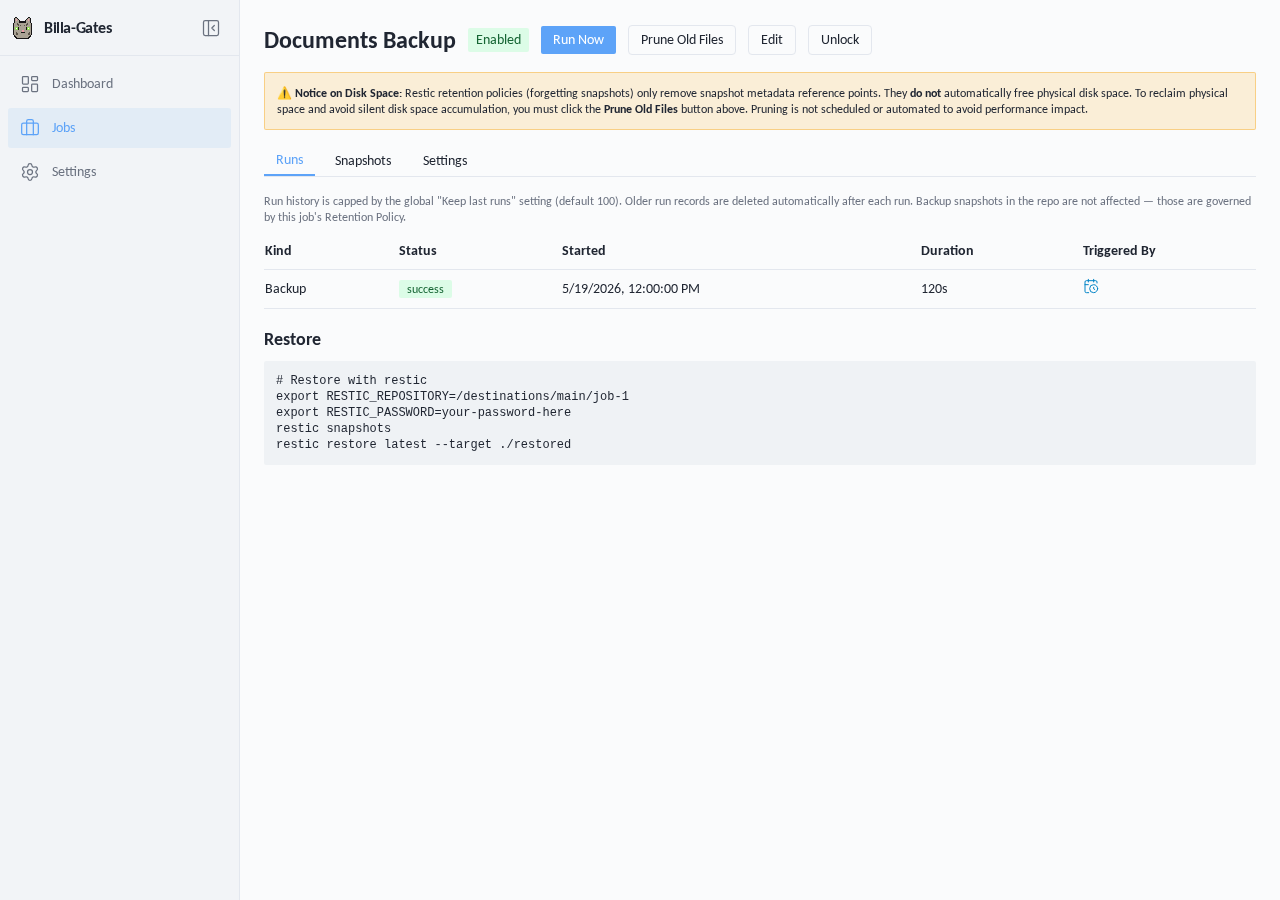
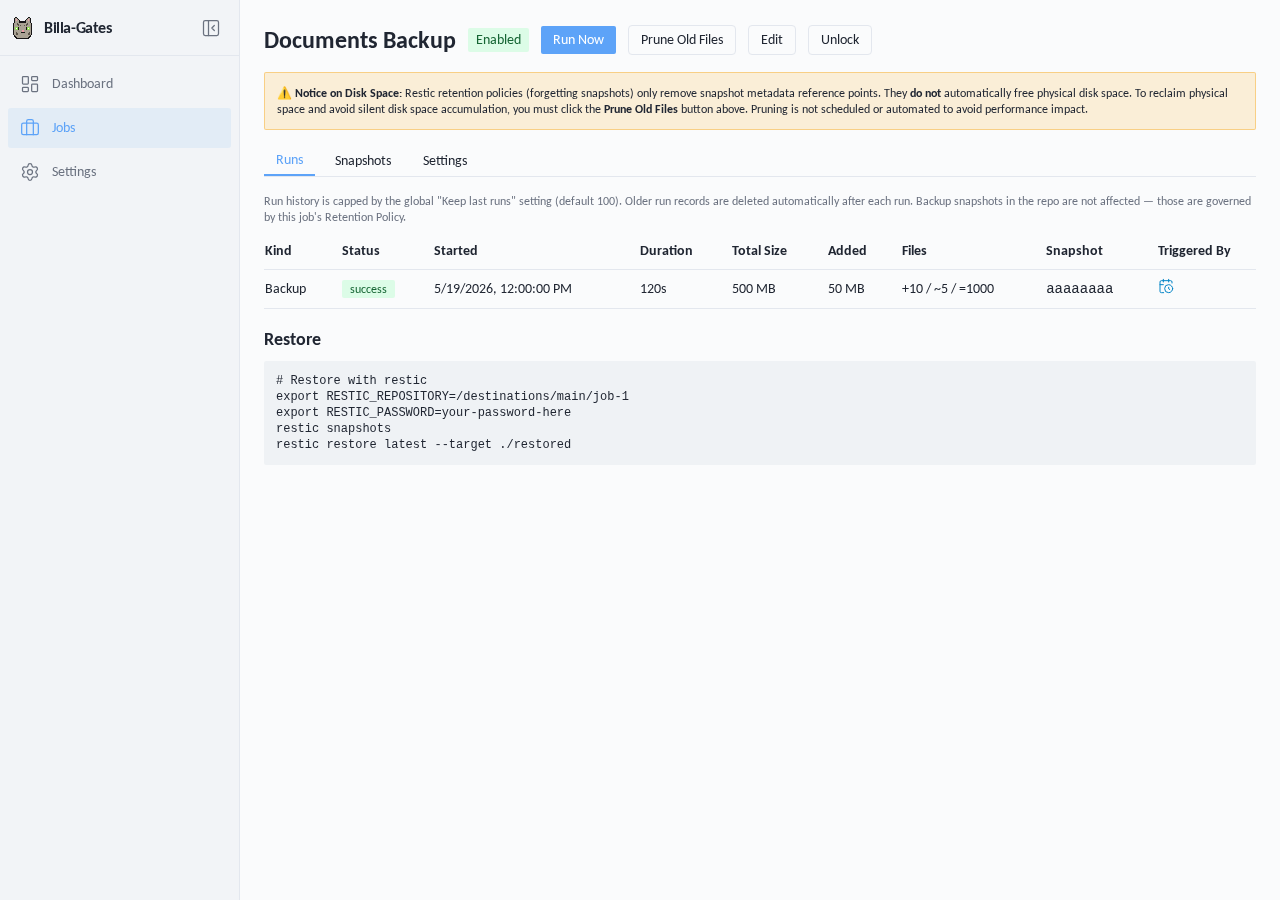
add run details to the table

diff --git a/frontend/src/pages/JobDetail.test.tsx b/frontend/src/pages/JobDetail.test.tsx
@@ -492,4 +492,73 @@ describe('JobDetail', () => {
       expect(screen.getByRole('form')).toBeInTheDocument()
     })
   })
+
+  describe('runs list statistics columns', () => {
+    it('renders Total Size, Added size, Files, and Snapshot columns for runs with stats', async () => {
+      vi.mocked(api.getJobRuns).mockResolvedValue([
+        makeRun({
+          id: 'r-stats',
+          kind: 'backup',
+          status: 'success',
+          total_bytes_processed: 50000000, // ~47.7 MB
+          data_added_bytes: 1024000, // 1000 KB
+          files_new: 10,
+          files_changed: 5,
+          files_unmodified: 1000,
[1 lines of base64/hex data omitted]
+        }),
+      ])
+      renderWithProviders(<JobDetail />, { route: '/jobs/job-1' })
+      const table = await screen.findByRole('table')
+
+      // Verify table headers are present
+      expect(screen.getByText('Total Size')).toBeInTheDocument()
+      expect(screen.getByText('Added')).toBeInTheDocument()
+      expect(screen.getByText('Files')).toBeInTheDocument()
+      expect(screen.getByText('Snapshot')).toBeInTheDocument()
+
+      // Verify row values are formatted and displayed
+      const cells = Array.from(table.querySelectorAll('td')).map((c) => c.textContent ?? '')
+      expect(cells).toContain('47.7 MB')
+      expect(cells).toContain('1000 KB')
+      expect(cells).toContain('+10 / ~5 / =1000')
+      expect(cells).toContain('abcdef12')
+    })
+
+    it('renders dashes for stats when they are missing or null (e.g. prune runs)', async () => {
+      vi.mocked(api.getJobRuns).mockResolvedValue([
+        makeRun({
+          id: 'r-prune',
+          kind: 'prune',
+          status: 'success',
+          total_bytes_processed: null,
+          data_added_bytes: null,
+          files_new: null,
+          files_changed: null,
+          files_unmodified: null,
+          snapshot_id: null,
+        }),
+      ])
+      renderWithProviders(<JobDetail />, { route: '/jobs/job-1' })
+      const table = await screen.findByRole('table')
+
+      const rows = table.querySelectorAll('tbody tr')
+      expect(rows.length).toBe(1)
+      const cells = Array.from(rows[0].querySelectorAll('td')).map((c) => c.textContent ?? '')
+
+      // Kind (0): 'prune'
+      // Status (1): 'success' (RunStatusBadge)
+      // Started (2): date
+      // Duration (3): duration
+      // Total Size (4): '—'
+      // Added (5): '—'
+      // Files (6): '—'
+      // Snapshot (7): '—'
+      // Triggered By (8): Icon
+      expect(cells[4]).toBe('—')
+      expect(cells[5]).toBe('—')
+      expect(cells[6]).toBe('—')
+      expect(cells[7]).toBe('—')
+    })
+  })
 })

diff --git a/frontend/src/pages/JobDetail.tsx b/frontend/src/pages/JobDetail.tsx
@@ -6,6 +6,7 @@ import RunStatusBadge from '../components/RunStatusBadge'
 import TriggeredByIcon from '../components/TriggeredByIcon'
 import * as api from '../lib/api'
 import type { BackupRun } from '../lib/types'
+import { formatBytes } from '../lib/utils'
 
 type Tab = 'runs' | 'snapshots' | 'settings'
 
@@ -250,6 +251,10 @@ export default function JobDetail() {
                   <th className="py-2 pr-4">Status</th>
                   <th className="py-2 pr-4">Started</th>
                   <th className="py-2 pr-4">Duration</th>
+                  <th className="py-2 pr-4">Total Size</th>
+                  <th className="py-2 pr-4">Added</th>
+                  <th className="py-2 pr-4">Files</th>
+                  <th className="py-2 pr-4">Snapshot</th>
                   <th className="py-2">Triggered By</th>
                 </tr>
               </thead>
@@ -265,6 +270,16 @@ export default function JobDetail() {
                     <td className="py-2 pr-4">{new Date(r.started_at).toLocaleString()}</td>
                     <td className="py-2 pr-4">
                       {r.duration_seconds != null ? `${r.duration_seconds}s` : '—'}
+                    </td>
+                    <td className="py-2 pr-4">{formatBytes(r.total_bytes_processed)}</td>
+                    <td className="py-2 pr-4">{formatBytes(r.data_added_bytes)}</td>
+                    <td className="py-2 pr-4">
+                      {r.files_new != null || r.files_changed != null || r.files_unmodified != null
+                        ? `+${r.files_new ?? 0} / ~${r.files_changed ?? 0} / =${r.files_unmodified ?? 0}`
+                        : '—'}
+                    </td>
+                    <td className="py-2 pr-4 font-mono">
+                      {r.snapshot_id ? r.snapshot_id.substring(0, 8) : '—'}
                     </td>
                     <td className="py-2">
                       <TriggeredByIcon value={r.triggered_by} />

diff --git a/frontend/src/pages/RunDetail.tsx b/frontend/src/pages/RunDetail.tsx
@@ -3,6 +3,7 @@ import { Link, useParams } from 'react-router-dom'
 import RunStatusBadge from '../components/RunStatusBadge'
 import * as api from '../lib/api'
 import type { BackupRun } from '../lib/types'
+import { formatBytes } from '../lib/utils'
 
 function shouldPoll(run: BackupRun): boolean {
   return run.status === 'running' || run.check_status === null
@@ -12,13 +13,6 @@ function formatDuration(seconds: number): string {
   if (seconds >= 3600) return `${Math.round(seconds / 3600)} hr`
   if (seconds >= 60) return `${Math.round(seconds / 60)} min`
   return `${seconds} sec`
-}
-
-function formatBytes(bytes: number): string {
-  if (bytes >= 1073741824) return `${(bytes / 1073741824).toFixed(1)} GB`
-  if (bytes >= 1048576) return `${(bytes / 1048576).toFixed(1)} MB`
-  if (bytes >= 1024) return `${(bytes / 1024).toFixed(1)} KB`
-  return `${bytes} B`
 }
 
 export default function RunDetail() {

diff --git a/frontend/src/lib/utils.ts b/frontend/src/lib/utils.ts
@@ -4,3 +4,23 @@ import { twMerge } from 'tailwind-merge'
 export function cn(...inputs: ClassValue[]) {
   return twMerge(clsx(inputs))
 }
+
+export function formatBytes(bytes: number | null | undefined): string {
+  if (bytes === null || bytes === undefined) return '—'
+  const GB = 1073741824
+  const MB = 1048576
+  const KB = 1024
+  if (bytes >= GB) {
+    const val = bytes / GB
+    return `${val % 1 === 0 ? val.toFixed(0) : val.toFixed(1)} GB`
+  }
+  if (bytes >= MB) {
+    const val = bytes / MB
+    return `${val % 1 === 0 ? val.toFixed(0) : val.toFixed(1)} MB`
+  }
+  if (bytes >= KB) {
+    const val = bytes / KB
+    return `${val % 1 === 0 ? val.toFixed(0) : val.toFixed(1)} KB`
+  }
+  return `${bytes} B`
+}

diff --git a/frontend/src/components/SnapshotList.tsx b/frontend/src/components/SnapshotList.tsx
@@ -1,17 +1,7 @@
 import type { Snapshot } from '../lib/types'
+import { formatBytes } from '../lib/utils'
 
 const MONTHS = ['Jan', 'Feb', 'Mar', 'Apr', 'May', 'Jun', 'Jul', 'Aug', 'Sep', 'Oct', 'Nov', 'Dec']
-
-function formatBytes(bytes: number | null): string {
-  if (bytes === null) return '—'
-  const GB = 1073741824
-  const MB = 1048576
-  const KB = 1024
-  if (bytes >= GB) return `${Math.round(bytes / GB)} GB`
-  if (bytes >= MB) return `${Math.round(bytes / MB)} MB`
-  if (bytes >= KB) return `${Math.round(bytes / KB)} KB`
-  return `${bytes} B`
-}
 
 function formatDate(iso: string): string {
   const d = new Date(iso)
